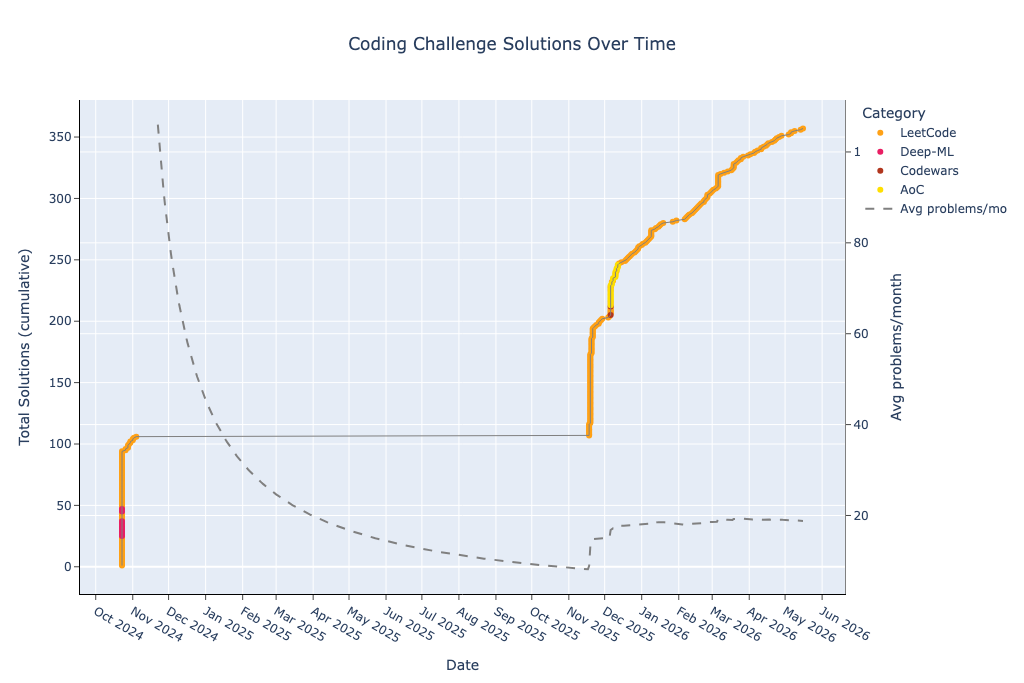
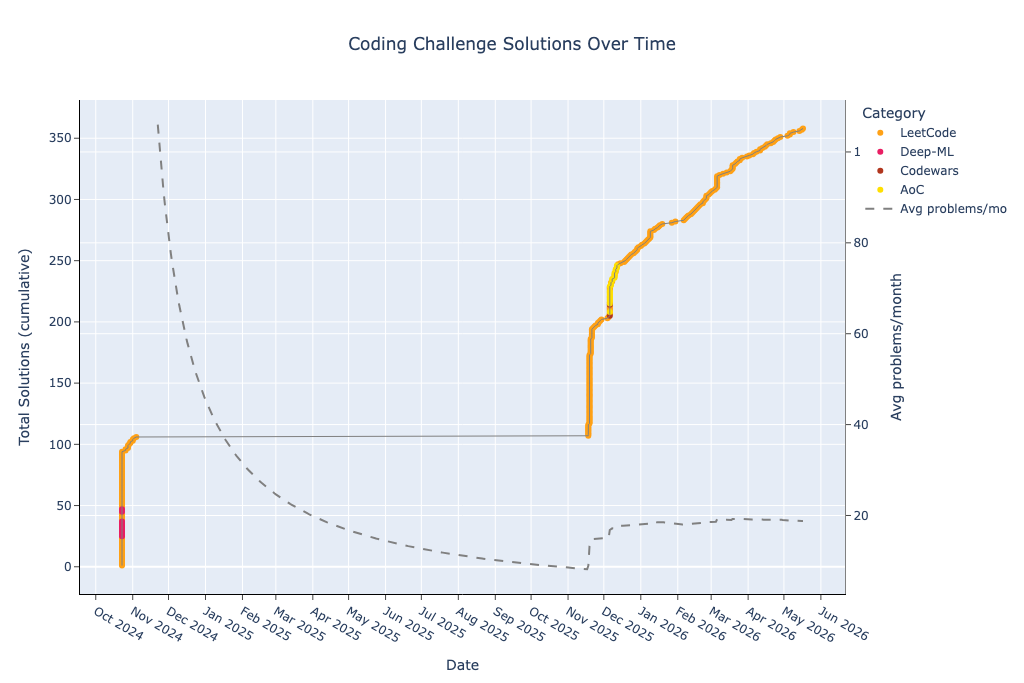
Regenerate README with LeetCode 1306

diff --git a/README.md b/README.md
@@ -36,7 +36,7 @@ This repository contains a collection of coding problems solved on various platf
 | deep-ml-easy | 9 | 72 | 8 | 10 | 0 | 2 | 13 | 0 | 0 | 0 | 12 | 3 | 0 | 0 | 0 | 0 | 0 | 0 |
 | deep-ml-medium | 5 | 69 | 13 | 5 | 0 | 1 | 7 | 0 | 0 | 0 | 8 | 2 | 0 | 0 | 0 | 0 | 0 | 0 |
 | leetcode-easy | 115 | 1890 | 16 | 157 | 6 | 153 | 145 | 41 | 4 | 14 | 189 | 4 | 4 | 14 | 1 | 0 | 11 | 0 |
-| leetcode-medium | 171 | 4493 | 26 | 302 | 5 | 456 | 331 | 102 | 20 | 39 | 372 | 6 | 36 | 52 | 11 | 25 | 23 | 7 |
+| leetcode-medium | 172 | 4510 | 26 | 304 | 5 | 459 | 332 | 102 | 20 | 39 | 376 | 6 | 37 | 52 | 11 | 25 | 23 | 7 |
 | leetcode-hard | 31 | 966 | 31 | 57 | 4 | 88 | 75 | 19 | 8 | 15 | 71 | 3 | 7 | 11 | 8 | 2 | 9 | 9 |
 
 ## Recent Changes
@@ -47,6 +47,7 @@ Recently solved and added problems.
 
 | Date | Type | Challenge | Solution Code | Problem Link |
 | --- | --- | --- | --- | --- |
+| 2026-05-17 | LeetCode Medium | Jump Game III | [python](leetcode/medium/1306.%20Jump%20Game%20III.py) | [leetcode.com](https://leetcode.com/problems/jump-game-iii/) |
 | 2026-05-16 | LeetCode Hard | Find Minimum in Rotated Sorted Array II | [python](leetcode/hard/154.%20Find%20Minimum%20in%20Rotated%20Sorted%20Array%20II.py) | [leetcode.com](https://leetcode.com/problems/find-minimum-in-rotated-sorted-array-ii/) |
 | 2026-05-14 | LeetCode Easy | Check if Array is Good | [python](leetcode/easy/2784.%20Check%20if%20Array%20is%20Good.py) | [leetcode.com](https://leetcode.com/problems/check-if-array-is-good/) |
 | 2026-05-09 | LeetCode Medium | Cyclically Rotating a Grid | [python](leetcode/medium/1914.%20Cyclically%20Rotating%20a%20Grid.py) | [leetcode.com](https://leetcode.com/problems/cyclically-rotating-a-grid/) |
@@ -56,7 +57,6 @@ Recently solved and added problems.
 | 2026-04-28 | LeetCode Medium | Minimum Operations to Make a Uni-Value Grid | [python](leetcode/medium/2033.%20Minimum%20Operations%20to%20Make%20a%20Uni-Value%20Grid.py) | [leetcode.com](https://leetcode.com/problems/minimum-operations-to-make-a-uni-value-grid/) |
 | 2026-04-26 | LeetCode Medium | Detect Cycles in 2D Grid | [python](leetcode/medium/1559.%20Detect%20Cycles%20in%202D%20Grid.py) | [leetcode.com](https://leetcode.com/problems/detect-cycles-in-2d-grid/) |
 | 2026-04-24 | LeetCode Easy | Furthest Point From Origin | [python](leetcode/easy/2833.%20Furthest%20Point%20From%20Origin.py) | [leetcode.com](https://leetcode.com/problems/furthest-point-from-origin/) |
-| 2026-04-23 | LeetCode Medium | Sum of Distances | [python](leetcode/medium/2615.%20Sum%20of%20Distances.py) | [leetcode.com](https://leetcode.com/problems/sum-of-distances/) |
 # Advent of Code
 ### 2025
 | Day | Challenge | Time Complexity | Space Complexity | Solution Code | Problem Link |
@@ -344,6 +344,7 @@ Recently solved and added problems.
 | 1249 | Minimum Remove to Make Valid Parentheses | O(n) | O(n) | [python](leetcode/medium/1249.%20Minimum%20Remove%20to%20Make%20Valid%20Parentheses.py) | [leetcode.com](https://leetcode.com/problems/minimum-remove-to-make-valid-parentheses/) |
 | 1262 | Greatest Sum Divisible by Three | O(n) | O(1) | [python](leetcode/medium/1262.%20Greatest%20Sum%20Divisible%20by%20Three.py) | [leetcode.com](https://leetcode.com/problems/greatest-sum-divisible-by-three/) |
 | 1292 | Maximum Side Length of a Square with Sum Less than or Equal to Threshold | O(n) | O(1) | [python](leetcode/medium/1292.%20Maximum%20Side%20Length%20of%20a%20Square%20with%20Sum%20Less%20than%20or%20Equal%20to%20Threshold.py) | [leetcode.com](https://leetcode.com/problems/maximum-side-length-of-a-square-with-sum-less-than-or-equal-to-threshold) |
+| 1306 | Jump Game III | O(n) | O(n) | [python](leetcode/medium/1306.%20Jump%20Game%20III.py) | [leetcode.com](https://leetcode.com/problems/jump-game-iii/) |
 | 1339 | Maximum Product of Splitted Binary Tree | O(n) | O(1) | [python](leetcode/medium/1339.%20Maximum%20Product%20of%20Splitted%20Binary%20Tree.py) | [leetcode.com](https://leetcode.com/problems/maximum-product-of-splitted-binary-tree/) |
 | 1382 | Balance a Binary Search Tree | O(n) | O(1) | [python](leetcode/medium/1382.%20Balance%20a%20Binary%20Search%20Tree.py) | [leetcode.com](https://leetcode.com/problems/balance-a-binary-search-tree/) |
 | 1390 | Four Divisors | O(n) | O(1) | [python](leetcode/medium/1390.%20Four%20Divisors.py) | [leetcode.com](https://leetcode.com/problems/four-divisors) |

diff --git a/CHANGES.md b/CHANGES.md
@@ -6,6 +6,7 @@ Recently solved and added problems.
 
 | Date | Type | Challenge | Solution Code | Problem Link |
 | --- | --- | --- | --- | --- |
+| 2026-05-17 | LeetCode Medium | Jump Game III | [python](leetcode/medium/1306.%20Jump%20Game%20III.py) | [leetcode.com](https://leetcode.com/problems/jump-game-iii/) |
 | 2026-05-16 | LeetCode Hard | Find Minimum in Rotated Sorted Array II | [python](leetcode/hard/154.%20Find%20Minimum%20in%20Rotated%20Sorted%20Array%20II.py) | [leetcode.com](https://leetcode.com/problems/find-minimum-in-rotated-sorted-array-ii/) |
 | 2026-05-14 | LeetCode Easy | Check if Array is Good | [python](leetcode/easy/2784.%20Check%20if%20Array%20is%20Good.py) | [leetcode.com](https://leetcode.com/problems/check-if-array-is-good/) |
 | 2026-05-09 | LeetCode Medium | Cyclically Rotating a Grid | [python](leetcode/medium/1914.%20Cyclically%20Rotating%20a%20Grid.py) | [leetcode.com](https://leetcode.com/problems/cyclically-rotating-a-grid/) |
@@ -15,4 +16,3 @@ Recently solved and added problems.
 | 2026-04-28 | LeetCode Medium | Minimum Operations to Make a Uni-Value Grid | [python](leetcode/medium/2033.%20Minimum%20Operations%20to%20Make%20a%20Uni-Value%20Grid.py) | [leetcode.com](https://leetcode.com/problems/minimum-operations-to-make-a-uni-value-grid/) |
 | 2026-04-26 | LeetCode Medium | Detect Cycles in 2D Grid | [python](leetcode/medium/1559.%20Detect%20Cycles%20in%202D%20Grid.py) | [leetcode.com](https://leetcode.com/problems/detect-cycles-in-2d-grid/) |
 | 2026-04-24 | LeetCode Easy | Furthest Point From Origin | [python](leetcode/easy/2833.%20Furthest%20Point%20From%20Origin.py) | [leetcode.com](https://leetcode.com/problems/furthest-point-from-origin/) |
-| 2026-04-23 | LeetCode Medium | Sum of Distances | [python](leetcode/medium/2615.%20Sum%20of%20Distances.py) | [leetcode.com](https://leetcode.com/problems/sum-of-distances/) |